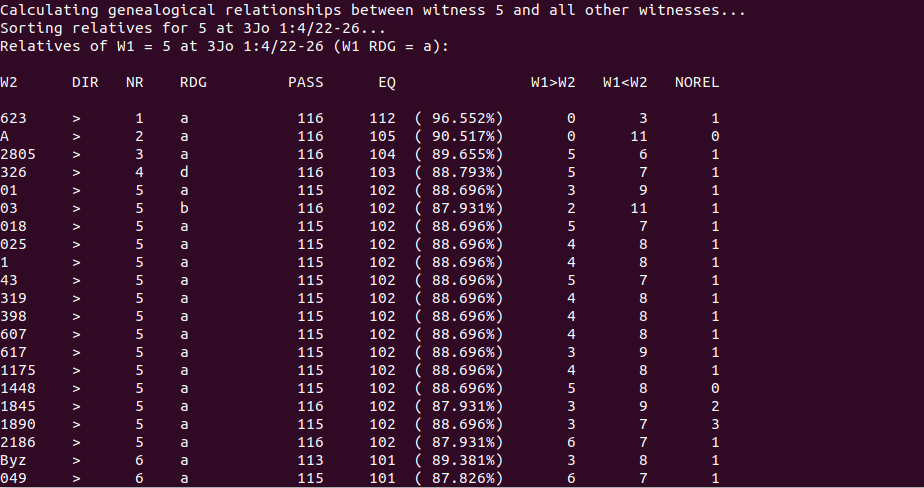
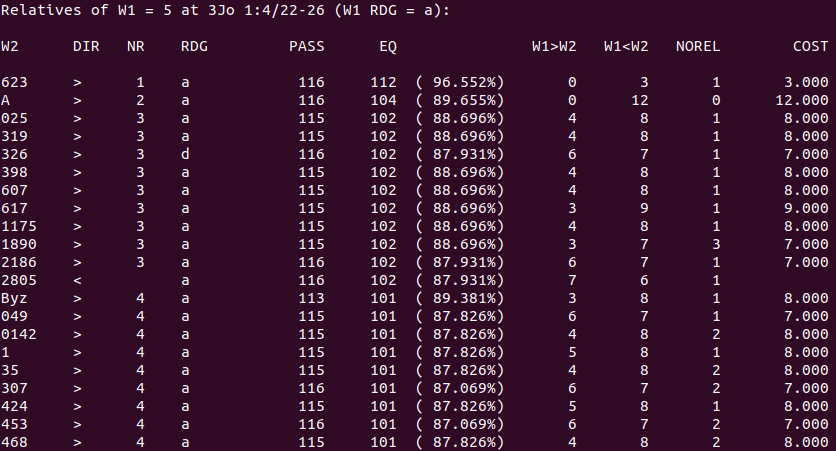
Updated readme; updated CMakeLists to address a build issue in Windows with MinGW

diff --git a/src/find_relatives.cpp b/src/find_relatives.cpp
@@ -38,6 +38,7 @@ struct witness_comparison {
 	int posterior; //number of variation units where the primary witness has a posterior reading
 	//int uncl; //number of variation units where both witnesses have different readings, but either's could explain that of the other
 	int norel; //number of variation units where the primary witness has a reading unrelated to that of the secondary witness
+	float cost; //genealogical cost of relationship from the target witnesses if it is a potential ancestor
 };
 
 /**
@@ -261,6 +262,7 @@ void print_relatives(const string & primary_wit_id, const string & vu_label, con
 	cout << std::right << std::setw(8) << "W1<W2";
 	//cout << std::right << std::setw(8) << "UNCL";
 	cout << std::right << std::setw(8) << "NOREL";
+	cout << std::right << std::setw(12) << "COST";
 	cout << "\n\n";
 	//Print the subsequent rows:
 	for (witness_comparison comparison : comparisons) {
@@ -294,6 +296,12 @@ void print_relatives(const string & primary_wit_id, const string & vu_label, con
 		cout << std::right << std::setw(8) << comparison.posterior;
 		//cout << std::right << std::setw(8) << comparison.uncl;
 		cout << std::right << std::setw(8) << comparison.norel;
+		if (comparison.cost >= 0) {
+			cout << std::right << std::setw(12) << fixed << std::setprecision(3) << comparison.cost;
+		}
+		else {
+			cout << std::right << std::setw(12) << "";
+		}
 		cout << "\n";
 	}
 	cout << endl;
@@ -433,6 +441,7 @@ int main(int argc, char* argv[]) {
 		comparison.norel = comparison.pass - comparison.eq - comparison.prior - comparison.posterior;
 		comparison.perc = comparison.pass > 0 ? (100 * float(comparison.eq) / float(comparison.pass)) : 0;
 		comparison.dir = comparison.prior > comparison.posterior ? -1 : (comparison.posterior > comparison.prior ? 1 : 0);
+		comparison.cost = comparison.dir < 0 ? -1 : primary_secondary_comp.cost;
 		comparisons.push_back(comparison);
 	}
 	//Sort the list of comparisons from highest number of agreements to lowest:

diff --git a/src/compare_witnesses.cpp b/src/compare_witnesses.cpp
@@ -37,6 +37,7 @@ struct witness_comparison {
 	int posterior; //number of variation units where the primary witness has a posterior reading
 	//int uncl; //number of variation units where both witnesses have different readings, but either's could explain that of the other
 	int norel; //number of variation units where the primary witness has a reading unrelated to that of the secondary witness
+	float cost; //genealogical cost of relationship from the target witnesses if it is a potential ancestor
 };
 
 /**
@@ -162,6 +163,7 @@ void print_comparisons(const string & primary_wit_id, const set<string> & second
 	cout << std::right << std::setw(8) << "W1>W2";
 	cout << std::right << std::setw(8) << "W1<W2";
 	cout << std::right << std::setw(8) << "NOREL";
+	cout << std::right << std::setw(12) << "COST";
 	cout << "\n\n";
 	//Print the subsequent rows:
 	for (witness_comparison comparison : comparisons) {
@@ -178,6 +180,12 @@ void print_comparisons(const string & primary_wit_id, const set<string> & second
 		cout << std::right << std::setw(8) << comparison.prior;
 		cout << std::right << std::setw(8) << comparison.posterior;
 		cout << std::right << std::setw(8) << comparison.norel;
+		if (comparison.cost >= 0) {
+			cout << std::right << std::setw(12) << fixed << std::setprecision(3) << comparison.cost;
+		}
+		else {
+			cout << std::right << std::setw(12) << "";
+		}
 		cout << "\n";
 	}
 	cout << endl;
@@ -290,6 +298,7 @@ int main(int argc, char* argv[]) {
 		comparison.norel = comparison.pass - comparison.eq - comparison.prior - comparison.posterior;
 		comparison.perc = comparison.pass > 0 ? (100 * float(comparison.eq) / float(comparison.pass)) : 0;
 		comparison.dir = comparison.prior > comparison.posterior ? -1 : (comparison.posterior > comparison.prior ? 1 : 0);
+		comparison.cost = comparison.dir < 0 ? -1 : primary_secondary_comp.cost;
 		comparisons.push_back(comparison);
 	}
 	//Sort the list of comparisons from highest number of agreements to lowest:

diff --git a/README.md b/README.md
@@ -24,9 +24,9 @@ In light of the strengths and shortcomings of its predecessors, the open-cbgm li
 
 To achieve the goal of feature (1), we have made our entire codebase available under the permissive MIT License. None of the functionality "under the hood" is obfuscated, and any user with access to the input file can customize local stemmata and connectivity parameters. (Incidentally, this fulfills a desideratum for customizability expressed by Wasserman and Gurry, _A New Approach to Textual Criticism_, 119–120.)
 
-With respect to feature (2), our code makes use of only three external libraries: the cxxopts command-line argument parsing library (https://github.com/jarro2783/cxxopts), the pugixml XML-parsing library (https://github.com/zeux/pugixml), and the CRoaring compressed bitmap library (https://github.com/RoaringBitmap/CRoaring). The first two libraries were deliberately chosen for their lightweight nature, and the third was an easy choice for its excellent performance benchmarks. The only input source for the software is an XML file encoding collation data; the size of the _ECM_ collation data for a single chapter of New Testament typically ranges between 100KB and 200KB. At this time, the software does not employ an external database for caching collation data, as it is not needed; nevertheless, we have endeavored to make the library modular enough to make it easy to incorporate such a feature. The outputs of the script are small .dot files (ranging from 4KB to 12KB each) containing rendering information for graphs.
+With respect to feature (2), our code makes use of only four external libraries: the cxxopts command-line argument parsing library (https://github.com/jarro2783/cxxopts), the pugixml XML-parsing library (https://github.com/zeux/pugixml), the SQLite database library (https://www.sqlite.org), and the CRoaring compressed bitmap library (https://github.com/RoaringBitmap/CRoaring). The first two libraries were deliberately chosen for their lightweight nature, the third boasts a relatively small memory footprint, and the fourth was an easy choice for its excellent performance benchmarks. The only input source for the software is an XML file encoding collation data; the size of the _ECM_ collation data for a single chapter of New Testament typically ranges between 100KB and 200KB. The size of a genealogical cache SQLite database generated by this library will typically take up several MB of space. The outputs of the script are small .dot files (ranging from 4KB to 12KB each) containing rendering information for graphs.
 
-For feature (3), we made performance-minded decisions at all levels of design. We chose the pugixml library to ensure that the software would parse potentially long XML input files quickly. Likewise, we used Roaring bitmaps from the CRoaring library to encode pregenealogical and genealogical relationships, both to leverage hardware accelerations for common computations involving those relationships and to ensure that performance would scale gracefully with the number of variation units covered in collation input files. We stored data keyed by witnesses in hash tables for efficient accesses on average. Due to combinatorial nature of the problem of substemma optimization, we implemented common heuristics known to be effective at solving similar types of problems in practice. As a result, the open-cbgm library can parse the _ECM_ collation of 3 John (consisting of 137 witnesses and 116 variation units), calculate the pre-genealogical and genealogical relationships between its witnesses, and generate a global stemma for the entire book in roughly two minutes on a desktop computer.
+For feature (3), we made performance-minded decisions at all levels of design. We chose the pugixml library to ensure that the software would parse potentially long XML input files quickly. SQLite databases are known for their speed, and following Edmondson's lead, we have optimized our database's query performance with denormalization. Likewise, we used Roaring bitmaps from the CRoaring library to encode pregenealogical and genealogical relationships, both to leverage hardware accelerations for common computations involving those relationships and to ensure that performance would scale gracefully with the number of variation units covered in collation input files. We stored data keyed by witnesses in hash tables for efficient accesses on average. Due to combinatorial nature of the problem of substemma optimization, we implemented common heuristics known to be effective at solving similar types of problems in practice. As a result, the open-cbgm library can parse the _ECM_ collation of 3 John (consisting of 137 witnesses and 116 variation units), calculate the pre-genealogical and genealogical relationships between its witnesses, and write this data to the cache in just over two minutes, and it can generate a global stemma for the entire book in under ten seconds on a desktop computer.
 
 Finally, for feature (4), we ensured compliance with the XML standard of the Text Encoding Initiative (TEI) by designing the software to expect an input in the TEI XML format used by the INTF and the International Greek New Testament Project (IGNTP) in their transcriptions and collations. (For specific guidelines, see TEI Consortium, eds. \[2019\], _TEI P5: Guidelines for Electronic Text Encoding and Interchange (version 3.6.0)_, manual, TEI Consortium, http://www.tei-c.org/Guidelines/P5/ \[accessed 1 January 2020\], and Houghton, H.A.G. \[2016\], _IGNTP Guidelines for XML Transcriptions of New Testament Manuscripts (version 1.5)_, manual, International Greek New Testament Project \[unpublished\].) We made this possible by encoding common features of the CBGM as additional TEI XML elements in the input collation file (e.g., the feature set `<fs/>` element for a variation unit's connectivity and the `<graph/>` element for its local stemma). An example for a variation unit in 3 John is shown below.
 
@@ -52,7 +52,7 @@ The .dot format used to describe output graphs is the standard used by the graph
 
 ## Installation and Dependencies
 
-As mentioned above, the open-cbgm library uses three external libraries (cxxopts, pugixml, and CRoaring), but because these libraries are compact, we have included the necessary headers and scripts in the library for convenience. With respect to graph outputs, the open-cbgm library does not generate image files directly; instead, for the sake of flexibility, it generates textual graph description files in .dot format, which can subsequently be converted to image files in a variety of formats using graphviz. Platform-specific instructions for installing graphviz are provided below, and directions on how to get image files from the .dot outputs can be found in the "Usage" section.
+As mentioned above, the open-cbgm library uses four external libraries (cxxopts, pugixml, sqlite3, and roaring), but for convenience and performance, we have included the necessary headers and scripts in the library for convenience. With respect to graph outputs, the open-cbgm library does not generate image files directly; instead, for the sake of flexibility, it generates textual graph description files in .dot format, which can subsequently be converted to image files in a variety of formats using graphviz. Platform-specific instructions for installing graphviz are provided below, and directions on how to get image files from the .dot outputs can be found in the "Usage" section.
 
 To begin setting up the library, you should clone the Git repository. To do this from the command-line, you'll need to install Git (https://git-scm.com/). To clone this repository from the command-line, use the command
 
@@ -148,42 +148,62 @@ Alternatively, you can download the library from https://www.graphviz.org/ and i
 
 ## Usage
 
-When built, the open-cbgm library contains four executable scripts: compare\_witnesses, find\_relatives, optimize\_substemmata, and print\_graphs. The first two scripts correspond to modules with the same names in both versions of the INTF's Genealogical Queries tool. The third offers functionality that is offered only partially or not at all in the Genealogical Queries tool. The fourth generates graphs that can be displayed one variation unit at a time in the Genealogical Queries tool. We will provide usage examples and illustrations for each script in the subsections that follow. For these examples, we assume that you have copied all four executables from their locations in the build directory to the main open-cbgm directory; you can do this by hand or on the command-line via the `cp` command. The example commands appear as they would be entered on Linux and MacOS; for Windows, add the `.exe` suffix to the executable.
+When built, the open-cbgm library contains seven executable scripts: populate\_db, compare\_witnesses, find\_relatives, optimize\_substemmata, print\_local\_stemma, print\_textual\_flow, and print\_global\_stemma. The first script reads the input XML file containing collation and local stemma data and uses it to populate a local database from which the remaining scripts can quickly retrieve needed data. The second and third correspond to modules with the same names in both versions of the INTF's Genealogical Queries tool. The fourth offers functionality that is offered only partially or not at all in the Genealogical Queries tool. The fifth, sixth, and seventh generate graphs similar to those offered by the Genealogical Queries tool. We will provide usage examples and illustrations for each script in the subsections that follow. For these examples, we assume that you have copied all executables from their locations in the build directory to the main open-cbgm directory; you can do this by hand or on the command-line via the `cp` command. The example commands appear as they would be entered on Linux and MacOS; for Windows, you will need to add the `.exe` suffix to the executable.
 
-All of these scripts take the input collation XML file as a required command-line argument, and they all accept the following optional arguments related to processing it:
+### Population of the Genealogical Cache
+
+The populate\_db script reads the input collation XML file, calculates genealogical relationships between all pairs of witnesses, and writes this and other data needed for common CBGM tasks to a SQLite database. Typically, this process will take at least a few minutes, depending on the number of variation units and witnesses in the collation, but the use of a database is intended to make this process one-time work. The script takes the input XML file as a required command-line argument, and it also accepts the following optional arguments for processing the data:
 - `-t` or `--threshold`, which will set a threshold of minimum extant passages for witnesses to be included from the collation. For example, the argument `-t 100` will filter out any witnesses extant in fewer than 100 passages.
-- `--split`, `--orth`, and `--def`, which will treat readings labelled in the XML input as split, orthographic, or defective as distinct for the purposes of witness comparison. These flags can be provided in any combination.
+- `-z` followed by a space-separated list of reading types (e.g., `-z defective orthographic`), which will treat readings of those types as trivial for the purposes of witness comparison (so using the example already provided, a defective or orthographic subvariant of a reading would be considered to agree with that reading).
+- `--merge-splits`, which will treat split attestations of the same reading as equivalent for the purposes of witness comparison.
 
-To illustrate the difference, we present two versions of the local stemma for the variation unit at 3 John 1:4/22–26, one with split readings counted as distinct (i.e., using the argument `--split`), and the other with split readings and defective readings counted as distinct (i.e., using argument `--split --def`).
+If we wanted to create a new database called cache.db, then we would use the following command:
 
-![3 John 1:4/22–26, split readings distinct](https://github.com/jjmccollum/open-cbgm/blob/master/images/B25K1V4U22-26-local-stemma-split.png)
-![3 John 1:4/22–26, split and defective readings distinct](https://github.com/jjmccollum/open-cbgm/blob/master/images/B25K1V4U22-26-local-stemma-split-def.png)
+	./populate_db examples/3_john_collation.xml cache.db
+
+Please note that at this time, the current database must be overwritten, or a separate one must be created, in order to incorporate any changes to the processing options.
+
+To illustrate the effects of the processing arguments, we present four versions of the local stemma for the variation unit at 3 John 1:4/22–26, along with the commands used to populate the database containing their data. In the local stemmata presented below, dashed arrows represent edges of weight 0.
+
+	./populate_db examples/3_john_collation.xml cache.db
+
+![3 John 1:4/22–26, no processing](https://github.com/jjmccollum/open-cbgm/blob/master/images/B25K1V4U22-26-local-stemma.png)
+
+	./populate_db -z defective examples/3_john_collation.xml cache.db
+
+![3 John 1:4/22–26, defective readings trivial](https://github.com/jjmccollum/open-cbgm/blob/master/images/B25K1V4U22-26-local-stemma-def.png)
+
+	./populate_db --merge-splits examples/3_john_collation.xml cache.db
+
+![3 John 1:4/22–26, split readings merged](https://github.com/jjmccollum/open-cbgm/blob/master/images/B25K1V4U22-26-local-stemma-split.png)
+
+	./populate_db -z defective --merge-splits examples/3_john_collation.xml cache.db
+
+![3 John 1:4/22–26, split readings merged, defective readings trivial](https://github.com/jjmccollum/open-cbgm/blob/master/images/B25K1V4U22-26-local-stemma-split-def.png)
 
 ### Comparison of Witnesses
 
-The compare\_witnesses script is based on the "Comparison of Witnesses" module of the Genealogical Queries tool, but our implementation adds some flexibility. While the Genealogical Queries module only allows for the comparison of two witnesses at a time, compare\_witnesses can compare a given witness with any number of other specified witnesses. If our input XML collation file is the file example/3\_john\_collation.xml and we wanted to compare witness with ID 5 with the witnesses with IDs 03, 35, 88, 453, 1611, and 1739, then we would enter the following command from the open-cbgm directory:
+The compare\_witnesses script is based on the "Comparison of Witnesses" module of the Genealogical Queries tool, but our implementation adds some flexibility. While the Genealogical Queries module only allows for the comparison of two witnesses at a time, compare\_witnesses can compare a given witness with any number of other specified witnesses. If our genealogical cache is stored in the database cache.db and we wanted to compare the witness with ID 5 with the witnesses with IDs 03, 35, 88, 453, 1611, and 1739, then we would enter the following command from the open-cbgm directory:
 
-    ./compare_witnesses examples/3_john_collation.xml 5 03 35 88 453 1611 1739
+    ./compare_witnesses cache.db 5 03 35 88 453 1611 1739
     
-The output of the script will resemble that of the Genealogical Queries module, but with additional rows in the comparison table. The rows are sorted in descending order of their PERC values (i.e., their percentage of agreement with the primary witness in the passages where both witnesses are extant).
+The output of the script will resemble that of the Genealogical Queries module, but with additional rows in the comparison table. The rows are sorted in descending order of their number of agreements with the primary witness.
 
 ![Comparison of witness 5 with specified witnesses](https://github.com/jjmccollum/open-cbgm/blob/master/images/compare_witnesses_5_03_35_88_453_1611_1739.png)
 
 We can go even further. If we do not specify any other witnesses explicitly, then the script will compare the one witness specified with all other witnesses taken from the collation. So the command
 
-    ./compare_witnesses examples/3_john_collation.xml 5
+    ./compare_witnesses cache.db 5
     
 will return a table of genealogical comparisons between the witness with ID 5 and all other collated witnesses, as shown below.
 
 ![Comparison of witness 5 with all other witnesses](https://github.com/jjmccollum/open-cbgm/blob/master/images/compare_witnesses_5.png)
 
-Naturally, a comparison with all other witnesses will take longer to process than one with one or a few other witnesses, but the difference in practice is between three seconds and a fraction of a second.
-
 ### Finding Relatives
 
-The find\_relatives script is based on the "Comparison of Witnesses" module of the Genealogical Queries tool, but our implementation adds some flexibility. For a given witness and variation unit address, the script outputs a table of genealogical comparisons between the given witness and all other collated witnesses, just like the compare\_witnesses script does, but with an additional column indicating the readings of the other witnesses at the given variation unit. Following our earlier examples, if we want to list the relatives of witness 5 at 3 John 1:4/22–26 (the variation unit whose corresponding ID in the XML collation file is "B25K1V4U22-26"), then we would enter
+The find\_relatives script is based on the "Comparison of Witnesses" module of the Genealogical Queries tool, but our implementation adds some flexibility. For a given witness and variation unit address, the script outputs a table of genealogical comparisons between the given witness and all other collated witnesses, just like the compare\_witnesses script does, but with an additional column indicating the readings of the other witnesses at the given variation unit. Following our earlier examples, if we want to list the relatives of witness 5 at 3 John 1:4/22–26 (whose ID in the XML collation file is "B25K1V4U22-26"), then we would enter
 
-    ./find_relatives examples/3_john_collation.xml 5 B25K1V4U22-26
+    ./find_relatives cache.db 5 B25K1V4U22-26
     
 This will produce an output like the one shown below.
 
@@ -191,7 +211,7 @@ This will produce an output like the one shown below.
 
 If we want to filter the results for just those supporting reading d at this variation unit (which is how the Genealogical Queries module works by default), then we would add the optional argument `-r d` before the required arguments as follows:
 
-    ./find_relatives examples/3_john_collation.xml -r d 5 B25K1V4U22-26
+    ./find_relatives cache.db -r d 5 B25K1V4U22-26
     
 This will produce the output shown below.
 
@@ -199,27 +219,33 @@ This will produce the output shown below.
 
 ### Substemma Optimization
 
-In order to construct a global stemma, we need to isolate, for each witness, the most promising candidates for its ancestors in the global stemma. This process is referred to as _substemma optimization_. In order for a set of potential ancestors to constitute a feasible substemma for a witness, every extant reading in the witness must be explained by a reading in at least one of the potential ancestors. In order for a set of potential ancestors to constitute an optimal substemma for a witness, the total number of disagreements between that witness and each of its potential ancestors must be minimal.
+In order to construct a global stemma, we need to isolate, for each witness, the most promising candidates for its ancestors in the global stemma. This process is referred to as _substemma optimization_. In order for a set of potential ancestors to constitute a feasible substemma for a witness, every extant reading in the witness must be explained by a reading in at least one of the potential ancestors. In order for a set of potential ancestors to constitute an optimal substemma for a witness, a particular objective function of the ancestors in the substemma must be minimized. 
+
+To the best of our knowledge, existing implementations of the CBGM lack a well-defined objective function. To alleviate this problem and to address some other methodological limitations of existing substemma optimization procedures, the open-cbgm library uses a specially defined genealogical cost to provide an effective objective function. In the context of a local stemma, we define the _genealogical cost_ of one reading arising from another as the length of the shortest path from the prior reading to the posterior reading in the local stemma. If no path between the readings exists, then the cost is undefined. In the context of a witness and one of its potential ancestors, then the genealogical cost is defined as the sum of genealogical costs at every variation unit where they are defined. In practice, substemmata with lower genealogical costs tend to exhibit more parsimony (i.e., they consist of few ancestors) and explain more of the witness's variants by agreement than other substemmata.
 
 To get the optimal substemma for witness 5 in 3 John, we would enter the following command:
 
-    ./optimize_substemmata examples/3_john_collation.xml 5
+    ./optimize_substemmata cache.db 5
     
 This will produce the output displayed below.
 
 ![Optimal substemma of witness 5 in 3 John](https://github.com/jjmccollum/open-cbgm/blob/master/images/optimize_substemmata_5.png)
 
-This method is guaranteed to return a single substemma that is both feasible and optimal. In some cases, though, there may be multiple valid substemmata with the same cost, or there may be a valid substemma with a higher cost that we would consider preferable on other philological grounds. If we have an upper bound on the costs of substemmata we want to consider, then we can enumerate all feasible substemmata within that bound instead. For instance, if we want to consider all feasible substemmata for witness 5 with costs at or below 17, then we would use the optional argument `-b 17` before the required argument as follows:
+The `COST` column contains the total genealogical cost of the substemma. The `AGREE` column contains the total number of variants in the primary witness that can be explained by agreement with at least one stemmatic ancestor.
 
-    ./optimize_substemmata -b 17 examples/3_john_collation.xml 5
+This method is guaranteed to return at least one substemma that is both feasible and optimal, as long as the witness under consideration does not have equal priority to the _Ausgangstext_ (which typically only happens for fragmentary witnesses) and none of its readings have unclear sources. (Both problems can be solved by filtering out witnesses that are too lacunose and ensuring that all readings are explained in all local stemmata.) In some cases, there may be multiple valid substemmata with the same cost, or there may be a valid substemma with a higher cost that we would consider preferable on other grounds (e.g., it has a significantly higher value in the `AGREE` column. If we have an upper bound on the costs of substemmata we want to consider, then we can enumerate all feasible substemmata within that bound instead. For instance, if we want to consider all feasible substemmata for witness 5 with costs at or below 10, then we would use the optional argument `-b 10` before the required argument as follows:
+
+    ./optimize_substemmata -b 10 cache.db 5
     
-This will produce an output like the one pictured below.
+This will produce the following output:
 
 ![Substemmata of witness 5 with costs within 10 in 3 John](https://github.com/jjmccollum/open-cbgm/blob/master/images/optimize_substemmata_5_bound_10.png)
 
 Be aware that specifying too high an upper bound may cause the procedure to take a long time.
 
 ### Generating Graphs
+
+**TODO: Update to reflect modularization**
 
 The two main steps in the iterative workflow of the CBGM are the formulation of hypotheses about readings in local stemmata and the evaluation and refinement of these hypotheses using textual flow diagrams. Ideally, the end result of the process will be a global stemma consisting of all witnesses and their optimized substemmata. The open-cbgm library has full functionality to generate textual graph description files for local stemmata, textual flow diagrams, and global stemmata.
 
@@ -255,22 +281,23 @@ Sample images of local stemmata have already been included at the beginning of t
 Complete textual flow diagram for 3 John 1:4/22–26:
 ![3 John 1:4/22–26 complete textual flow diagram](https://github.com/jjmccollum/open-cbgm/blob/master/images/B25K1V4U22-26-textual-flow.png)
 
-Coherence in attestations diagrams for all readings in 3 John 1:4/22–26 (substantive readings only):
+Coherence in attestations diagrams for all readings in 3 John 1:4/22–26:
 ![3 John 1:4/22–26a coherence in attestations diagram](https://github.com/jjmccollum/open-cbgm/blob/master/images/B25K1V4U22-26Ra-coherence-attestations.png)
+![3 John 1:4/22–26af coherence in attestations diagram](https://github.com/jjmccollum/open-cbgm/blob/master/images/B25K1V4U22-26Raf-coherence-attestations.png)
 ![3 John 1:4/22–26b coherence in attestations diagram](https://github.com/jjmccollum/open-cbgm/blob/master/images/B25K1V4U22-26Rb-coherence-attestations.png)
 ![3 John 1:4/22–26c coherence in attestations diagram](https://github.com/jjmccollum/open-cbgm/blob/master/images/B25K1V4U22-26Rc-coherence-attestations.png)
 ![3 John 1:4/22–26d coherence in attestations diagram](https://github.com/jjmccollum/open-cbgm/blob/master/images/B25K1V4U22-26Rd-coherence-attestations.png)
+![3 John 1:4/22–26d2 coherence in attestations diagram](https://github.com/jjmccollum/open-cbgm/blob/master/images/B25K1V4U22-26Rd2-coherence-attestations.png)
 
 Coherence in variant passages diagram for 3 John 1:4/22–26:
 ![3 John 1:4/22–26 coherence in variant passages diagram](https://github.com/jjmccollum/open-cbgm/blob/master/images/B25K1V4U22-26-coherence-variants.png)
 
-Complete global stemma for 3 John:
-![3 John 1:4/22–26a coherence in attestations diagram](https://github.com/jjmccollum/open-cbgm/blob/master/images/global-stemma.png)
+Complete global stemma for 3 John (multiple roots are due to readings with unclear sources):
+![3 John global stemma](https://github.com/jjmccollum/open-cbgm/blob/master/images/global-stemma.png)
 
 ## Future Development
 
 While we feel that we have achieved all of the basic objectives with the current release of the open-cbgm library, there is clearly room for improvement on a number of fronts. We will briefly outline what we consider to be the clearest and most promising avenues of future development.
 
 1. User interface: While we have attempted to provide thorough documentation on the usage of the library's executable scripts, we realize that command-line interfaces are not particularly user-friendly, especially for users whose background is in the humanities and not in computer science. A graphical user interface (GUI) based on the library would be ideal. A relatively straightforward approach would be one like that of the INTF's Genealogical Queries tool: the library executes all necessary computations on a server, and it sends results to and receives requests from a client-side webpage, which uses standard JavaScript libraries like D3 (https://d3js.org/) to render the input forms and results in a user-friendy graphical format.
-2. Genealogical cache: As the library is tested on more extensive corpora of collation data, it will likely become more prudent to separate the one-time work of parsing the input XML file and calculating the genealogical relationships between witnesses from the routine tasks handled by the executable scripts. A database for caching genealogical relationships would facilitate such a solution. There is strong precedent for the use of databases for this purpose, as this is the approach taken in the Genealogical Queries tool and in Andrew Edmondson's Python implementation of the CBGM. Following Edmondson's example, the SQLite C library (https://www.sqlite.org/) would probably be the best choice for our codebase. If a database is incorporated into the library, then the input-related command-line arguments common to all of the scripts (namely, the `-t`, `--split`, `--orth`, and `--def` arguments) should be removed from these scripts and relegated to a separate script for initially populating the database. The use of a database would also enable the efficient generation of graphs for individual variation units, so the print\_graphs script could be modified not to require the generation of graphs for all variation units at one time.
-3. Pre-CBGM workflow: Presently, the user must add encodings of connectivity values and local stemmata to each variation unit in a TEI XML collation file manually. While this allows practitioners to customize the method fully, the process is not user-friendly. An interface for adding or modifying local stemmata and setting or updating connectivity values to variation units in a collation file would fit nicely between existing tools that collate TEI XML transcriptions (e.g., those at https://itsee-wce.birmingham.ac.uk/) and the CBGM software.
+2. Pre-CBGM workflow: Presently, the user must add encodings of connectivity values and local stemmata to each variation unit in a TEI XML collation file manually. While this allows practitioners to customize the method fully, the process is not user-friendly. An interface for adding or modifying local stemmata and setting or updating connectivity values to variation units in a collation file would fit nicely between existing tools that collate TEI XML transcriptions (e.g., those at https://itsee-wce.birmingham.ac.uk/) and the CBGM software.
